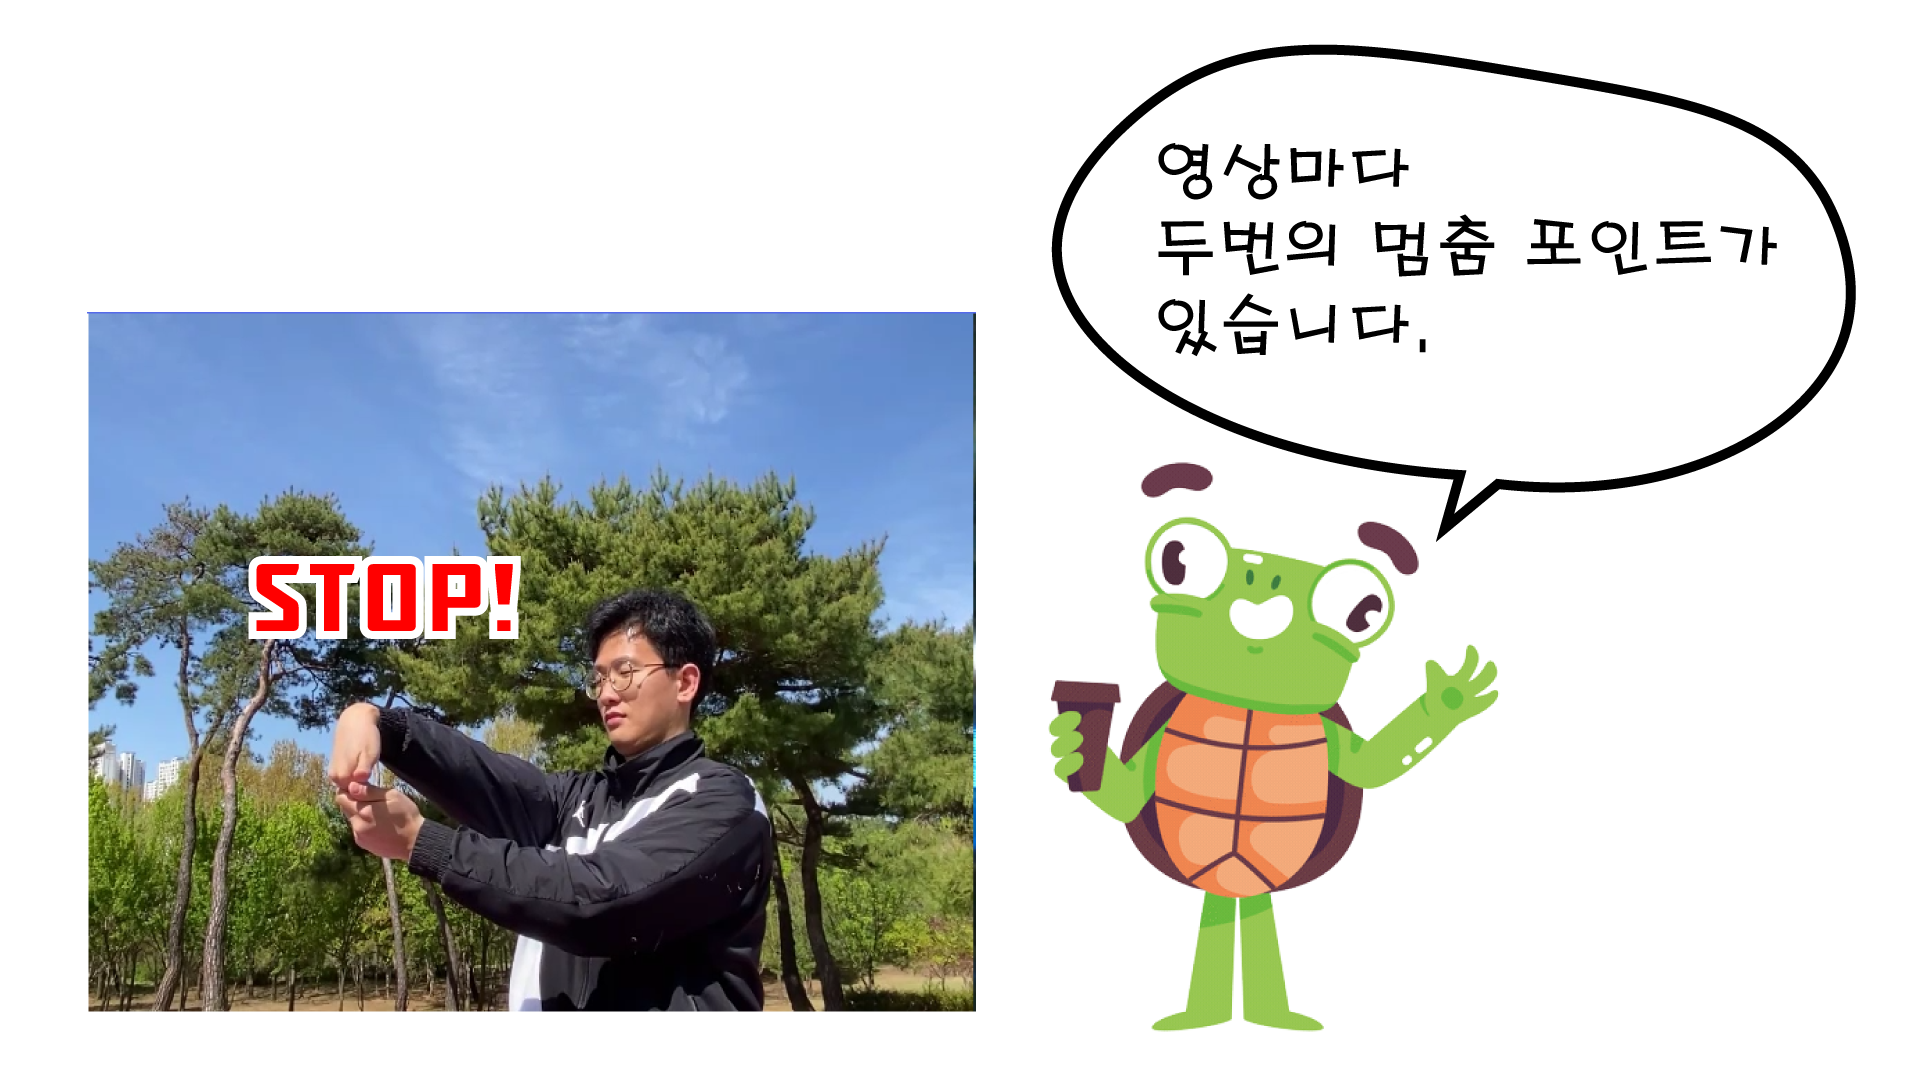
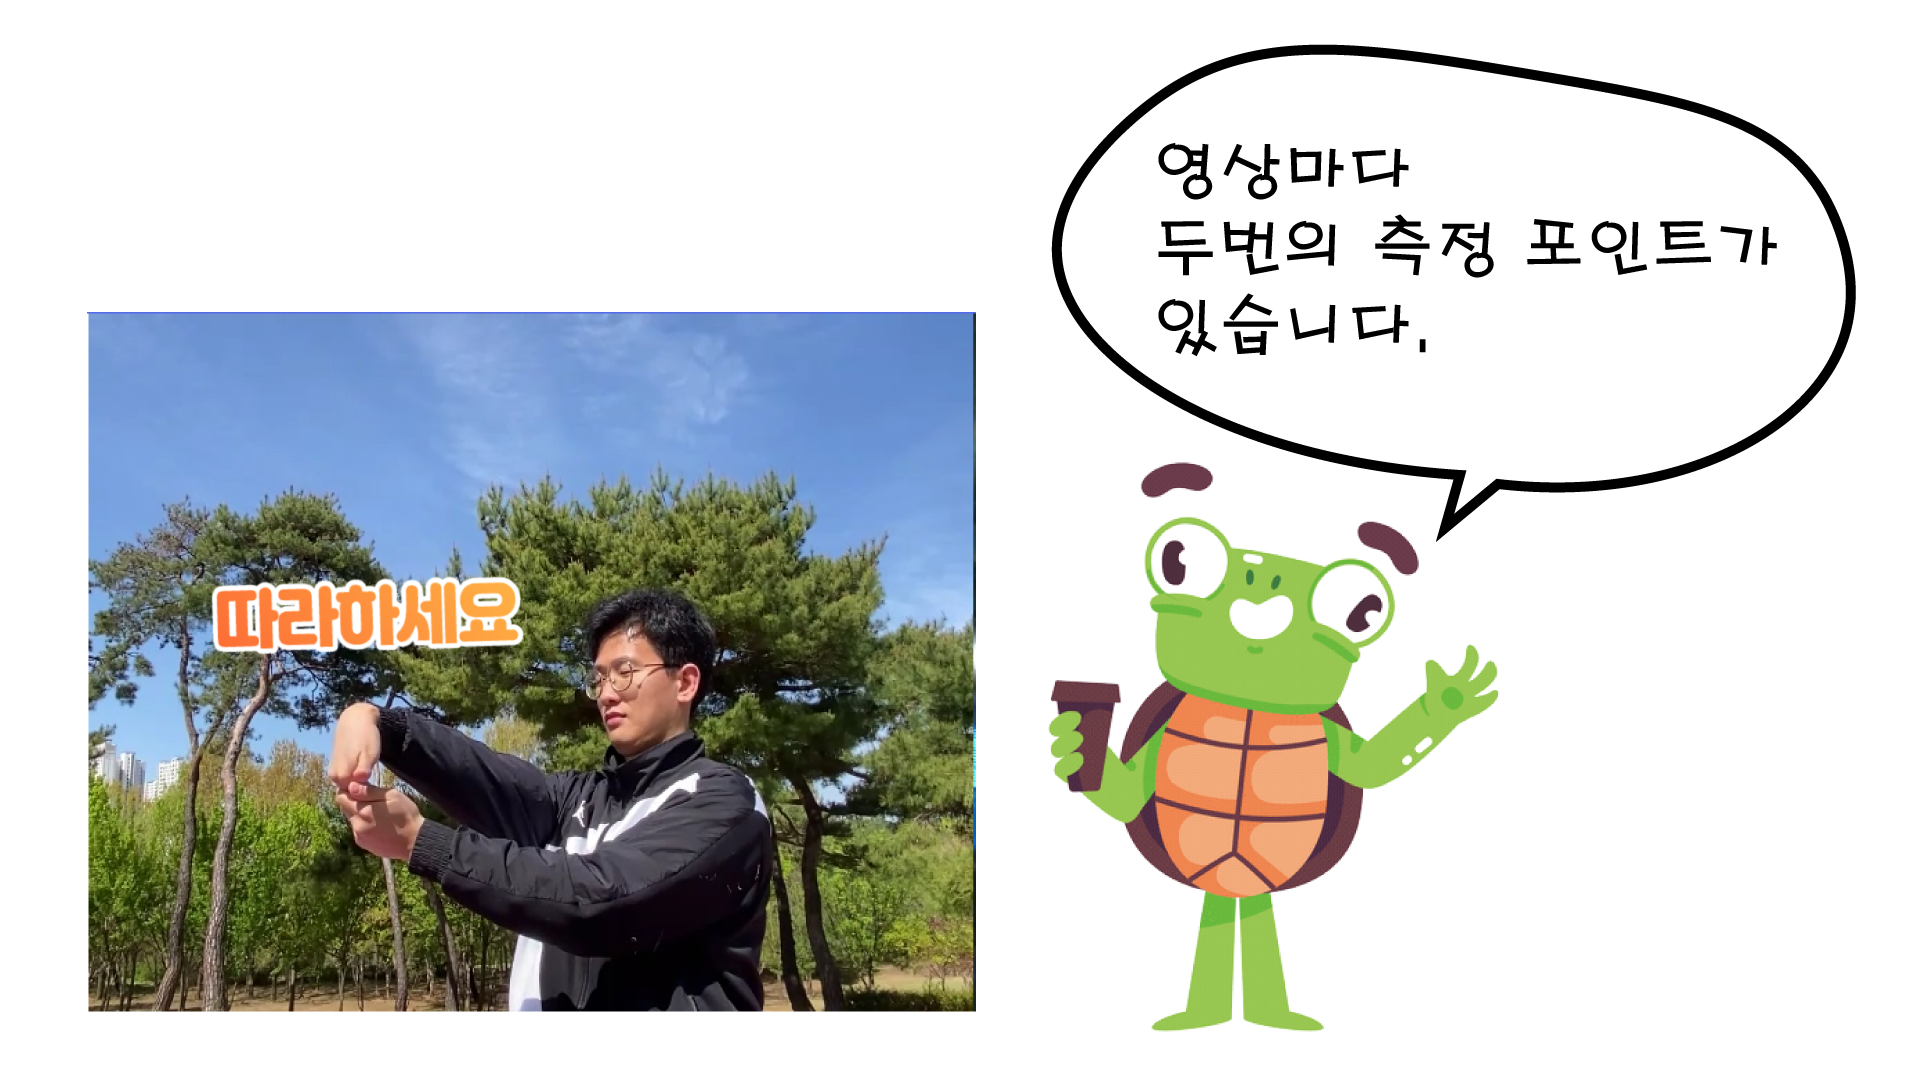
Update | stretchingPage css

Changed region(s): [[0.0938, 0.4889, 0.2812, 0.6111], [0.7188, 0.1833, 0.7812, 0.275]]

diff --git a/front-end/src/views/StretchingPage.vue b/front-end/src/views/StretchingPage.vue
@@ -35,7 +35,7 @@
       </div>
       <img 
       id="finger" 
-      class="useAnimated animated fadeInUp infinite pulse"
+      class="useAnimated animated fadeInUp infinite fulse"
       v-if="stretchReady"
       src="@/assets/finger.png" 
       alt="손가락">
@@ -83,22 +83,25 @@
           </div>
           <div class="my-12"></div>
           <a @click="moveNext">
-          <v-progress-circular
-            id="nextBtn"
-            :rotate="-90"
-            :size="150"
-            :width="15"
-            :value="timeValue"
-            color="white"
-          >
+            <v-progress-circular
+              id="nextBtn"
+              :rotate="-90"
+              :size="150"
+              :width="15"
+              :value="timeValue"
+              color="white"
+            >
             <v-icon color="white">fas fa-play</v-icon>
-          </v-progress-circular>
+            <br>
+            <span>다음영상</span>
+            </v-progress-circular>
           </a>
           <v-btn class="scoreLine" @click="moveMain">종료하기</v-btn>
         </div>
         </v-card>
       </div>
     </v-dialog>
+    <img style="z-index: 3;" id="vegetableChar" src="@/assets/hutdool.gif" alt="헛둘">
     <img id="vegetableChar" src="@/assets/vegetable.gif" alt="야채">
   </div>
 </template>
@@ -216,7 +219,6 @@
                 this.greatAudio.pause();
                 this.goodAudio.pause();
                 this.badAudio.pause();
-                this.effectimg = 'ready.png'
               }
             } catch (err) {
               this.score = 'Hmm...'
@@ -227,8 +229,6 @@
               if (window.playFlag === true && (window.firstStopFlag === false || window.secondStopFlag === false)) {
                 this.effectimg = 'Bad.png';
                 this.results['badCnt'] += 1;
-              } else {
-                this.effectimg = 'ready.png'
               }
             }
           }, 1600);
@@ -418,7 +418,7 @@
   #vegetableChar {
     position: fixed;
     left: 20px;
-    width: 400px;
+    width: 340px;
     bottom: -5vh;
   }
   #nextBtn {

diff --git a/front-end/src/components/Header.vue b/front-end/src/components/Header.vue
@@ -6,7 +6,7 @@
       </router-link>
     </v-toolbar-title>
     <v-spacer></v-spacer>
-    <div class="headerDiv px-10 d-none d-lg-flex align-center">
+    <div v-if="isIntro" class="headerDiv px-10 d-none d-lg-flex align-center">
       <router-link to="/" @click.native="$vuetify.goTo('#Effect')" class="headerLink" style="color: white;">BENEFITS</router-link>
       <router-link to="/" @click.native="$vuetify.goTo('#Explanation')" class="headerLink" style="color: white;">HOW TO USE</router-link>
       <router-link to="/" @click.native="$vuetify.goTo('#Statistic')" class="headerLink" style="color: white;">STATISTICS</router-link>
@@ -40,7 +40,7 @@
         </v-btn>
       </div>
     </v-toolbar-items>
-    <HelpIcon></HelpIcon>
+    <HelpIcon v-if="!isIntro"></HelpIcon>
   </v-app-bar>
 </template>
 
@@ -51,6 +51,12 @@
     name: 'Header',
     components: {
       HelpIcon,
+    },
+    props: {
+      isIntro: {
+        type: Boolean,
+        default: false
+      }
     },
     data() {
       return {

diff --git a/front-end/src/views/IntroPage.vue b/front-end/src/views/IntroPage.vue
@@ -1,6 +1,6 @@
 <template>
   <div id="intro">
-    <Header></Header>
+    <Header :isIntro="true"></Header>
       <section id="hero">
         <v-row no-gutters>
           <v-img
